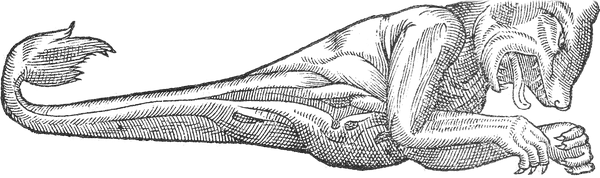
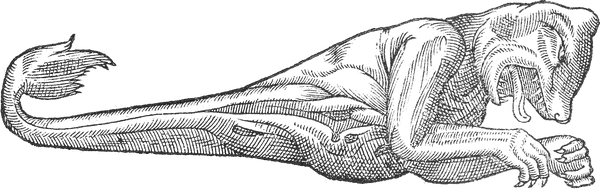
feat(packs): Paré's bear-headed monster and sea bishop stay ink by a visual pass (#111) (#187)
* feat(packs): Paré's bear-headed monster and sea bishop stay ink by a visual pass (#111)

* fix(packs): the bear's crop takes the whole head; README rows cut to fragments (#111)

---------

diff --git a/docs/pare-3059/README.md b/docs/pare-3059/README.md
@@ -1,0 +1,21 @@
+# Paré's bear-headed monster and sea bishop, `pare-bear` and `pare-bishop`: ink kept (#111)
+
+Two sprites of the `scanned` pack from one scan, `pare-3059` (Ambroise Paré, *Des monstres*, woodcut, Wellcome
+Collection L0033059, CC BY 4.0; 3555 px wide). Crops: bear (980,3140)-(2980,3860); bishop (1400,630)-(2520,2470).
+
+![raw crop, the ink sprite, the patch candidate; 3x map size above, map size below, each multiplied onto parchment](steps.png)
+
+`steps.png`: for each sprite, left to right, the raw crop, the ink sprite (the one shipped) and the patch candidate
+(paper measured from the crop, `#c2c2c2` for the bear and `#b8b8b8` for the bishop; the figure's outline dilated 40 px
+and feathered 14 px, so the whole crop round the figure stays), each multiplied onto parchment. The top two rows are 3x
+the width the map draws them (bear 200 px, bishop 110 px); the bottom row is map size.
+`pare-*.raw.png` and `.key.png` (both shrunk to 700 px wide) with `.cut.png` are the images behind the ink sprites;
+`.patch.cut.png` is the candidate.
+
+| Sprite | Call | Reason | In the raw, not in the sprite |
+|---|---|---|---|
+| `pare-bear` | keep `ink` | Ink alone on paper; the patch adds a grey halo at map size | the page's grey tone and mottling; the verso's ghost figure and its lettering under belly and arm |
+| `pare-bishop` | keep `ink` | Ink alone on paper; the patch adds smears at map size | the page's tone and the verso's ghost figure; a grey stain and smeared strokes at his feet; the verso's lettering below |
+
+The bear's crop reaches 80 px higher and 60 px further right than before, so the whole head is in.
+Undo for each: `key: 'patch'` on the sprite (with a measured `paper`, as in the candidates) in `scripts/build-packs.mjs`.
